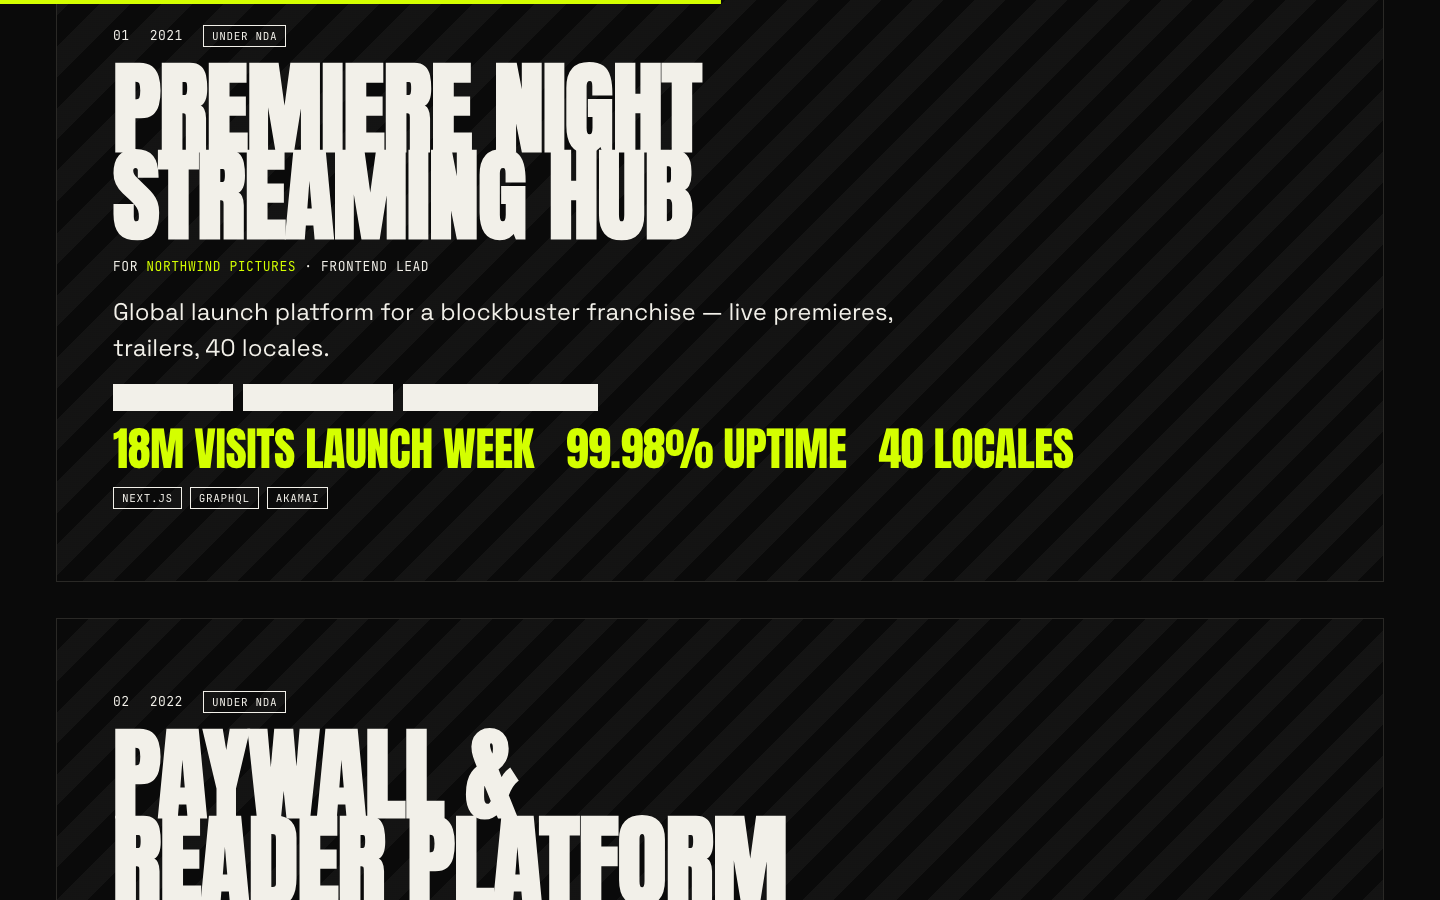
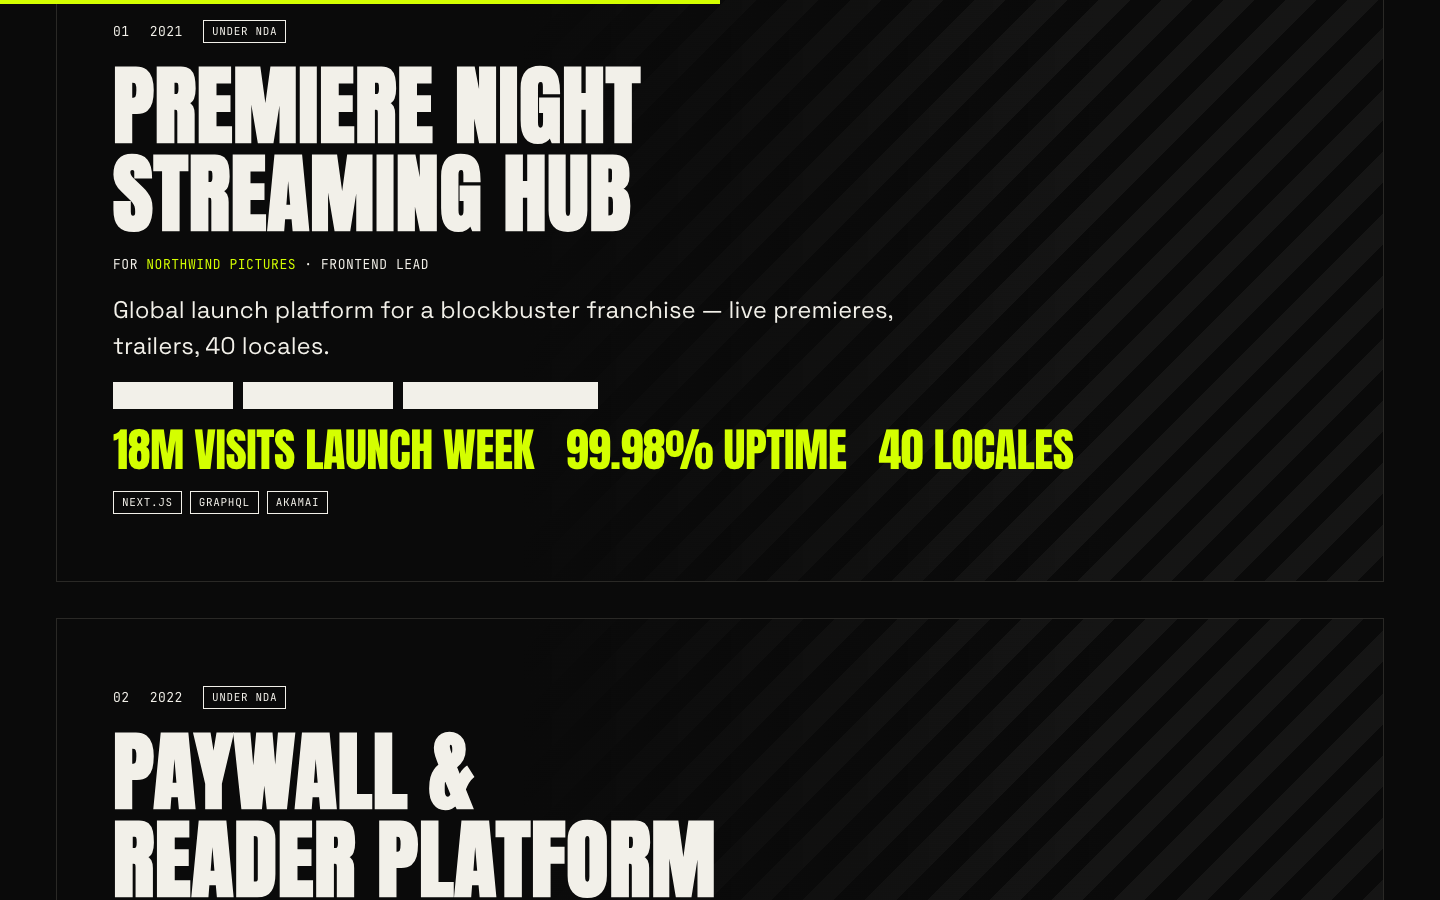
Make project titles readable (#30)
Multi-line project titles were hard to read:
- Anton at `line-height: .86` made the lines touch.
- Two long words per line formed a dense block.
- The diagonal NDA stripes ran right under the letters.

**Changes**
- Multi-line display headings (project title, credits, the activity
year, impact numbers) use a leading of about 1 and `text-wrap: balance`.
Big single-line numbers keep the tight .86.
- Project titles are slightly smaller and wider (`clamp(36px, 6cqi,
96px)`, `16ch`). `overflow-wrap: break-word` replaces `anywhere`, so
words don't split mid-word.
- NDA stripes fade out behind the text: they stay on the right half on
desktop and only on the right edge of narrow cards.

Checked at 1440×900 and 390×844. Theme overrides (Paper, VHS, Broadway)
still apply.

🤖 Generated with [Claude Code](https://claude.com/claude-code)

diff --git a/src/story/story.css b/src/story/story.css
@@ -21,7 +21,7 @@
 }
 .hero-top { display: flex; gap: 24px; align-items: center; justify-content: space-between; flex-wrap: wrap; }
 .hero-top a { text-decoration: none; color: var(--accent); }
-.hero-name { align-self: center; font-size: clamp(56px, min(19cqi, 30svh), 320px); line-height: .95; overflow-wrap: anywhere; }
+.hero-name { align-self: center; font-size: clamp(56px, min(19cqi, 30svh), 320px); line-height: .95; overflow-wrap: break-word; }
 .hero-name .line { display: block; animation: st-rise 1.1s cubic-bezier(.2,.7,0,1) both; }
 .hero-name .line + .line { animation-delay: .12s; }
 @keyframes st-rise { from { transform: translateY(40%); opacity: 0; } }
@@ -64,9 +64,15 @@
   border: 1px solid var(--line); padding: clamp(24px, 4cqi, 56px);
   display: grid; gap: 18px; min-height: 70vh; align-content: center; position: relative;
 }
-.project.vis-nda { background: repeating-linear-gradient(135deg, transparent 0 22px, color-mix(in srgb, var(--fg) 4%, transparent) 22px 44px); }
+/* NDA stripes stay on the right; the text side is clean so titles read well */
+.project.vis-nda {
+  background:
+    linear-gradient(90deg, var(--bg) 35%, transparent 80%),
+    repeating-linear-gradient(135deg, transparent 0 22px, color-mix(in srgb, var(--fg) 5%, transparent) 22px 44px);
+}
 .project-meta { display: flex; gap: 20px; align-items: center; }
-.project-title { font-size: clamp(40px, 7cqi, 112px); max-width: 14ch; overflow-wrap: anywhere; }
+/* multi-line display headings: open the leading so lines don't touch, balance the breaks */
+.project-title { font-size: clamp(36px, 6cqi, 96px); max-width: 16ch; line-height: 1.02; letter-spacing: 0.01em; text-wrap: balance; overflow-wrap: break-word; }
 .project-blurb { font-size: clamp(18px, 1.8cqi, 24px); max-width: 52ch; }
 .redacted { display: flex; flex-wrap: wrap; gap: 10px; }
 .redacted span {
@@ -76,10 +82,10 @@
 .redacted span:hover { background: var(--accent); color: var(--accent-ink); }
 .redacted span:hover::after { content: ' — classified'; }
 .impact { list-style: none; display: flex; flex-wrap: wrap; gap: 8px 32px; }
-.impact li { font-size: clamp(26px, 3.2cqi, 48px); color: var(--accent); }
+.impact li { font-size: clamp(26px, 3.2cqi, 48px); line-height: 1; color: var(--accent); }
 .project-link { color: var(--accent); }
 
-.big { font-size: clamp(48px, 9cqi, 150px); margin-bottom: 4vh; }
+.big { font-size: clamp(48px, 9cqi, 150px); line-height: 0.95; margin-bottom: 4vh; }
 .big span { font-size: .3em; }
 .heat { display: grid; grid-auto-flow: column; grid-template-rows: repeat(7, 1fr); gap: 3px; overflow-x: auto; padding-bottom: 8px; }
 .heat i { width: clamp(6px, 1.4cqi, 18px); aspect-ratio: 1; background: var(--line); }
@@ -106,11 +112,12 @@
   min-height: 100svh; padding: 18vh var(--gutter); border-top: 1px solid var(--line);
   display: grid; place-content: center; text-align: center; gap: 32px;
 }
-.credits h2 { font-size: clamp(44px, 10cqi, 180px); overflow-wrap: anywhere; }
+.credits h2 { font-size: clamp(44px, 10cqi, 180px); line-height: 0.95; text-wrap: balance; overflow-wrap: break-word; }
 .credits ul { list-style: none; display: flex; flex-wrap: wrap; gap: 24px; justify-content: center; }
 .credits a { color: var(--accent); }
 
 @container (max-width: 760px) {
+  .project.vis-nda { background: linear-gradient(90deg, var(--bg) 78%, transparent 100%), repeating-linear-gradient(135deg, transparent 0 14px, color-mix(in srgb, var(--fg) 6%, transparent) 14px 28px); }
   .hero-bottom { grid-template-columns: 1fr; }
   .stats { grid-template-columns: 1fr 1fr; }
   .tl-item { grid-template-columns: 1fr; gap: 12px; }
